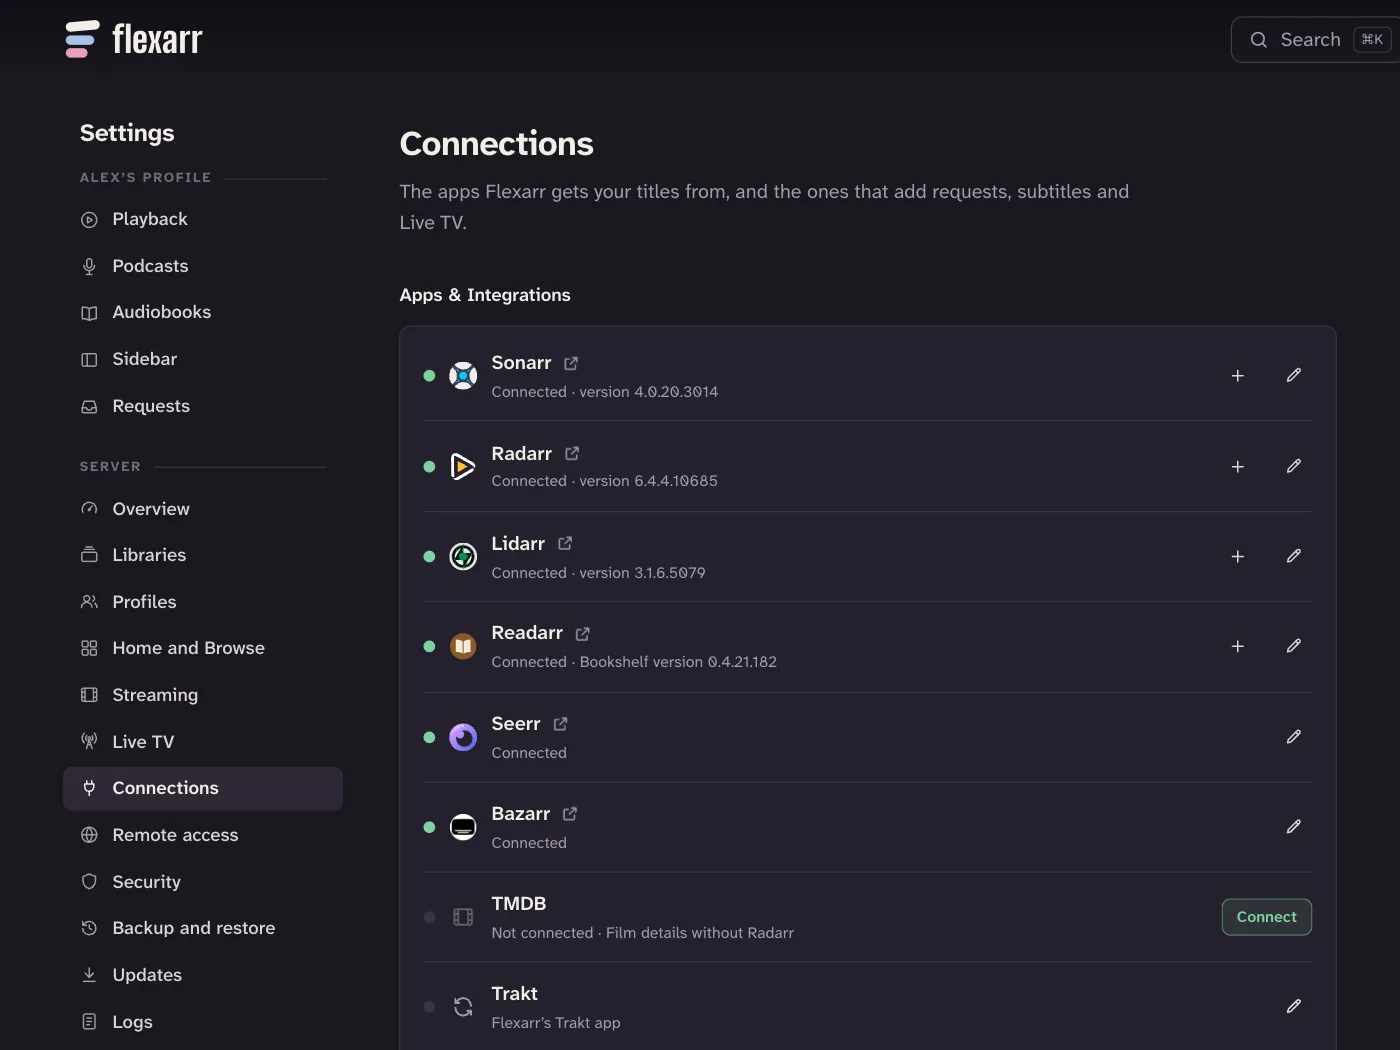
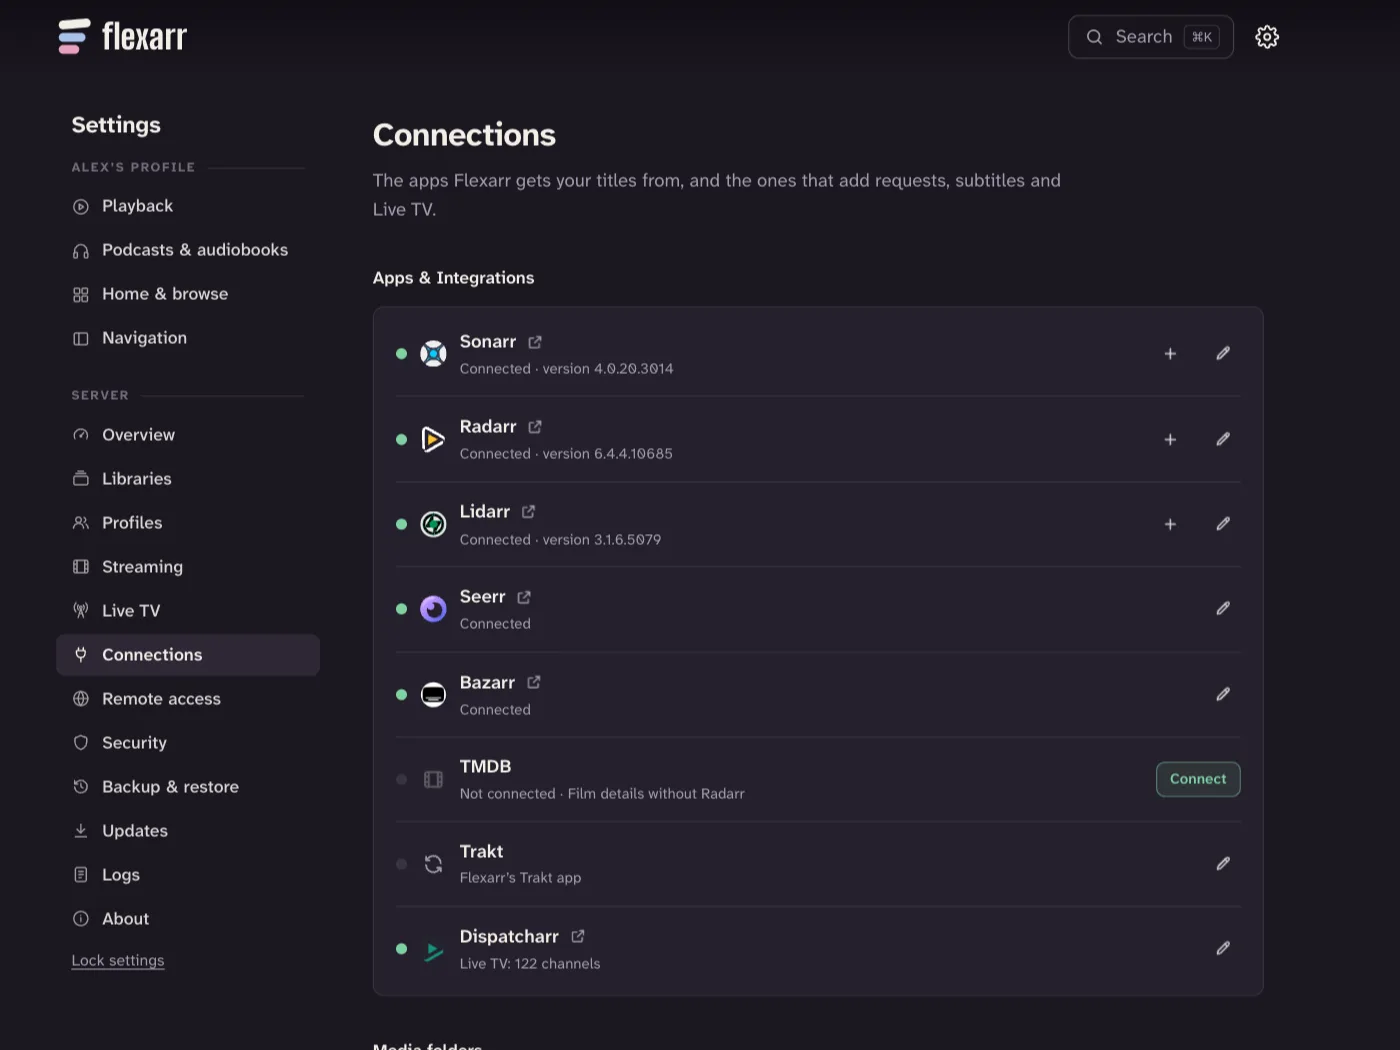
docs(guide): Connections screenshot without Readarr
Claude-Session: https://claude.ai/code/session_014wqedigYNxihzGVupnP5iu

diff --git a/site/guide/connect-arrs.html b/site/guide/connect-arrs.html
@@ -173,7 +173,7 @@
 <p>Films and shows that Radarr or Sonarr don&#39;t manage are still looked up through their search, so a connected Radarr fills in artwork even for films it didn&#39;t download.</p>
 <h2 id="add-a-connection"><a class="anchor" href="#add-a-connection" aria-hidden="true" tabindex="-1">#</a>Add a connection</h2>
 <p>You need two things for each app: its <strong>address</strong> and its <strong>API key</strong>.</p>
-<figure><img src="/guide/img/connections.webp" alt="Settings › Connections with Sonarr, Radarr, Lidarr, Seerr and Bazarr connected, and TMDB and Trakt below" data-caption="Settings › Connections" loading="lazy" decoding="async"></figure>
+<figure><img src="/guide/img/connections.webp" alt="Settings › Connections with Sonarr, Radarr, Lidarr, Seerr, Bazarr and Dispatcharr connected, and TMDB and Trakt" data-caption="Settings › Connections" loading="lazy" decoding="async"></figure>
 <ol>
 <li>In Flexarr, go to <strong>Settings › Connections</strong>.</li>
 <li>Every app Flexarr works with is listed under <strong>Apps &amp; Integrations</strong>. Find the one you want and choose <strong>Connect</strong>.</li>

diff --git a/docs/guide/connect-arrs.md b/docs/guide/connect-arrs.md
@@ -24,7 +24,7 @@ Films and shows that Radarr or Sonarr don't manage are still looked up through t
 
 You need two things for each app: its **address** and its **API key**.
 
-![Settings › Connections with Sonarr, Radarr, Lidarr, Seerr and Bazarr connected, and TMDB and Trakt below](../../site/guide/img/connections.webp "Settings › Connections")
+![Settings › Connections with Sonarr, Radarr, Lidarr, Seerr, Bazarr and Dispatcharr connected, and TMDB and Trakt](../../site/guide/img/connections.webp "Settings › Connections")
 
 1. In Flexarr, go to **Settings › Connections**.
 2. Every app Flexarr works with is listed under **Apps & Integrations**. Find the one you want and choose **Connect**.
